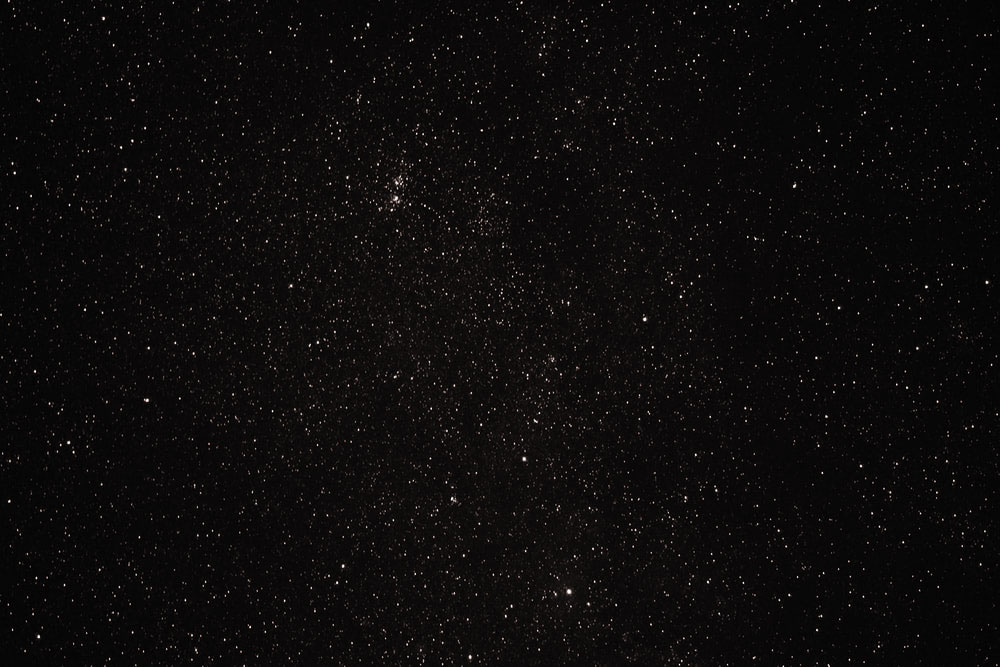
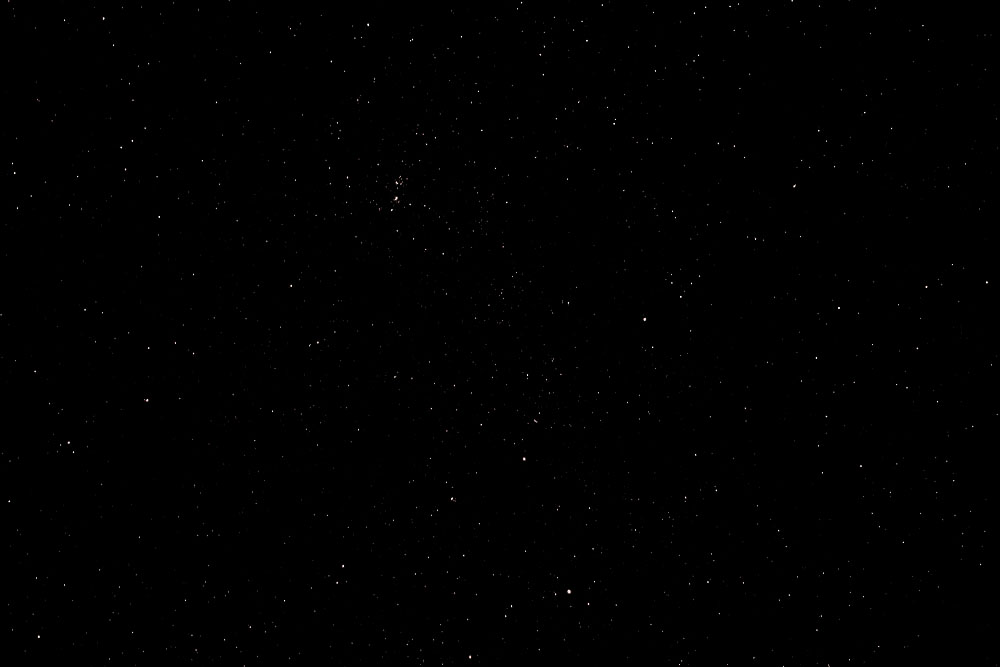
Added new BG image and media query

diff --git a/assets/css/style.css b/assets/css/style.css
@@ -10,7 +10,7 @@ h1, h2, h3, h4, h5, h6, p {
 }
 
 .jumbotron {
-    background-image: url(../images/deadspacelogo.jpg);
+    background-image: url(../images/deadspacelogo2.jpg);
     background-repeat: no-repeat;
     background-size: cover;
     background-position: center;
@@ -33,3 +33,8 @@ h1, h2, h3, h4, h5, h6, p {
     color: white;
 }
 
+@media only screen and (max-width: 900px) {
+    .jumbotron {
+        background-image: url(../images/deadspacelogo.jpg);
+    }
+  }
